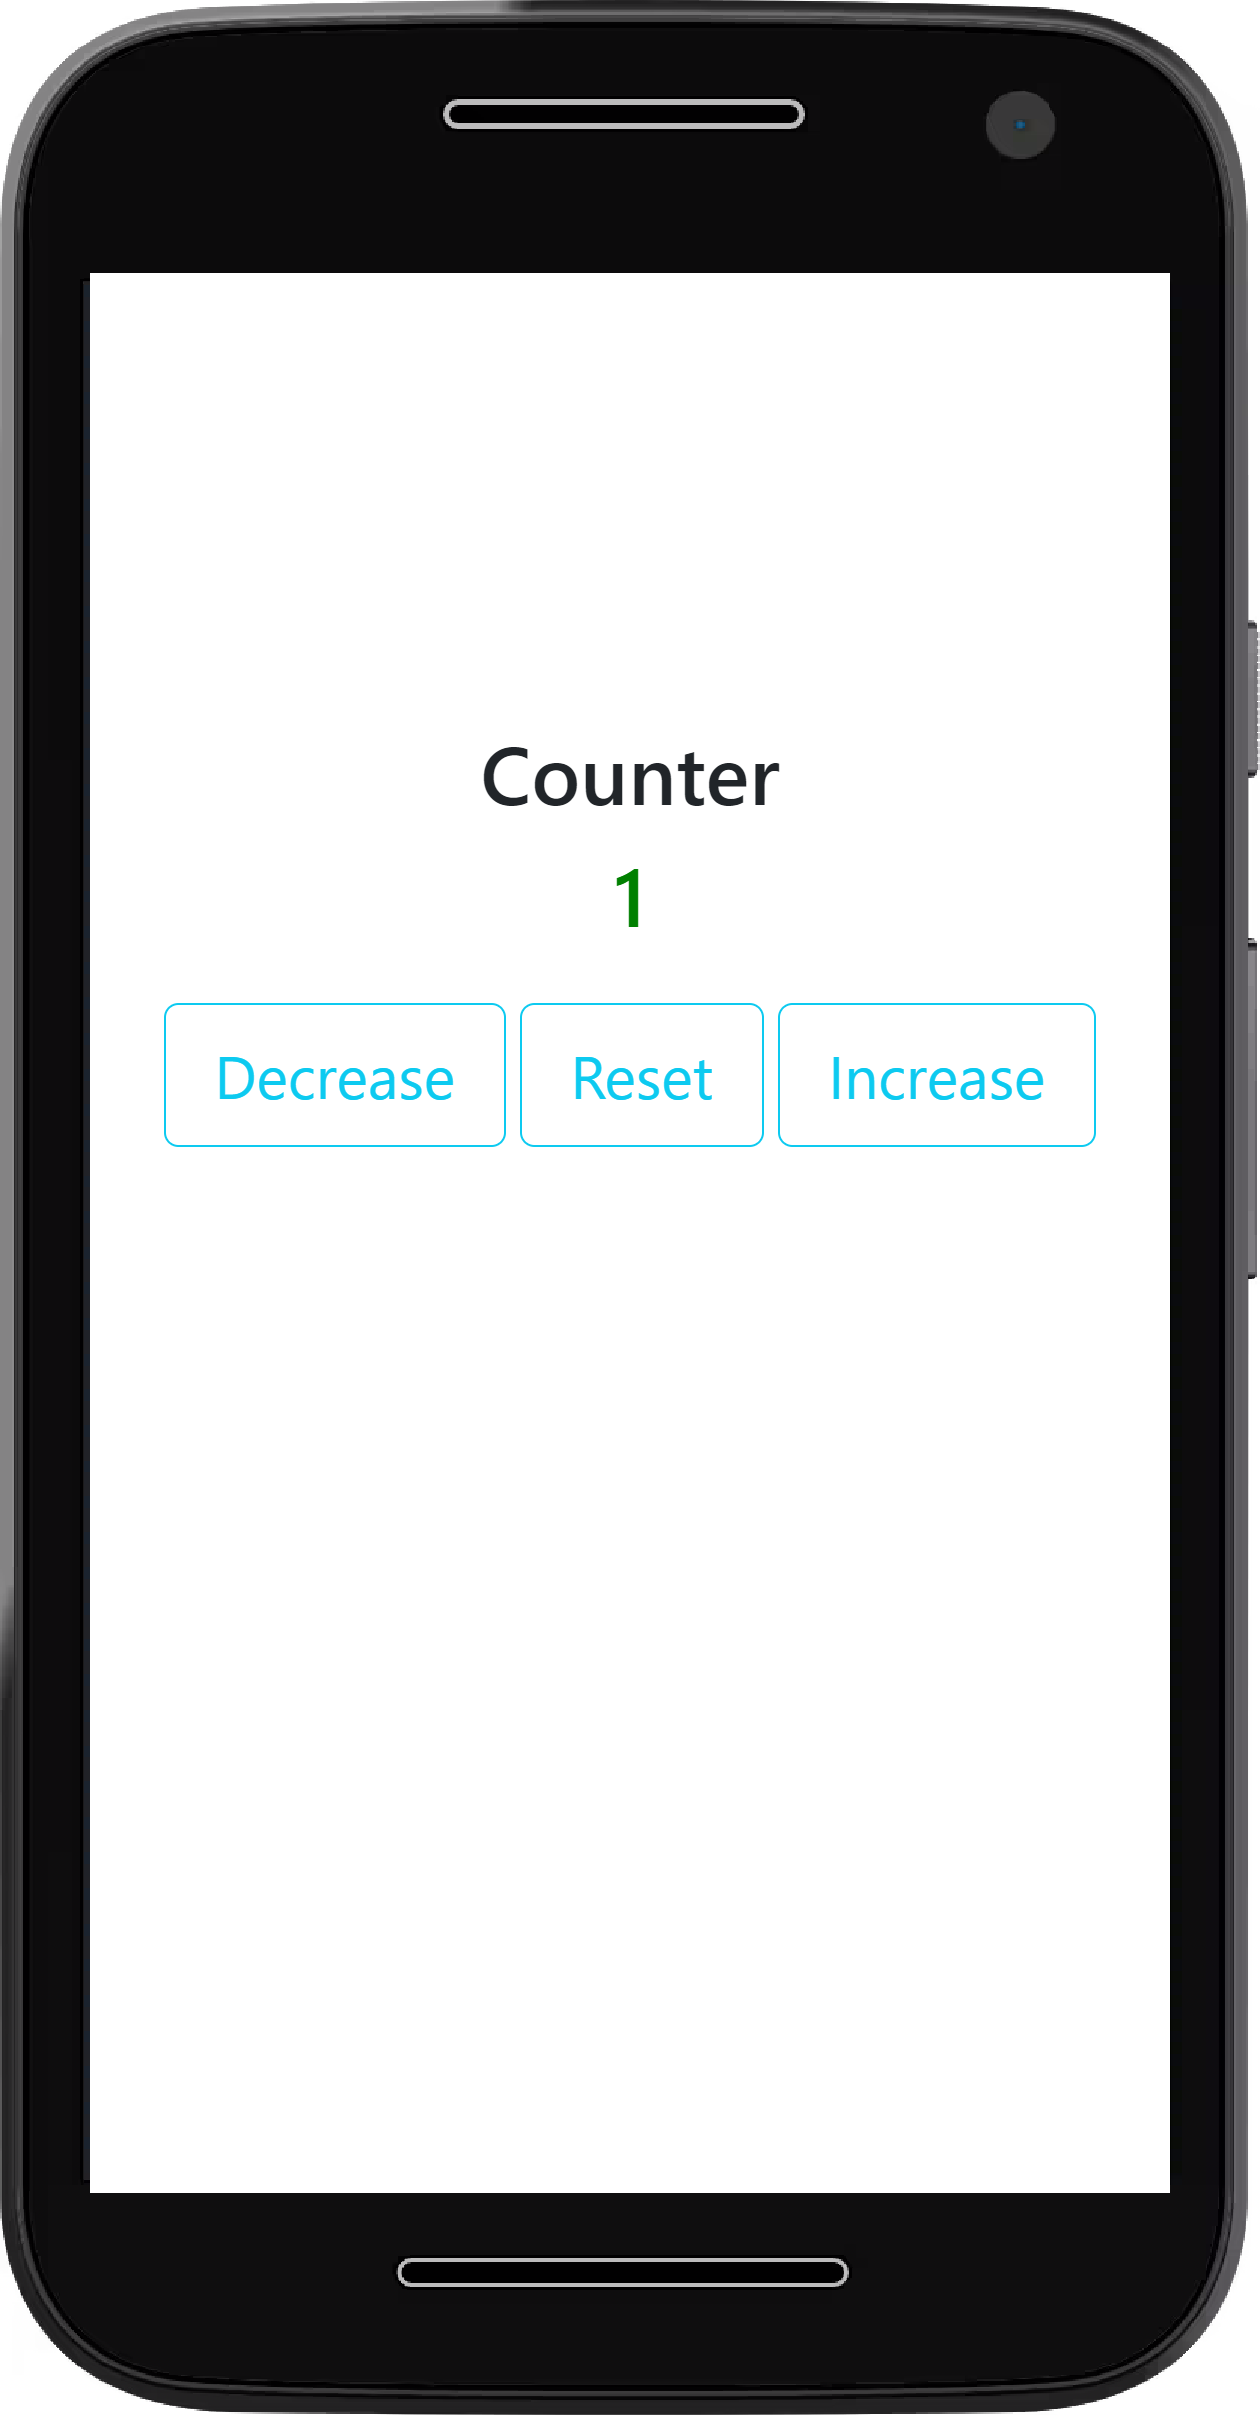
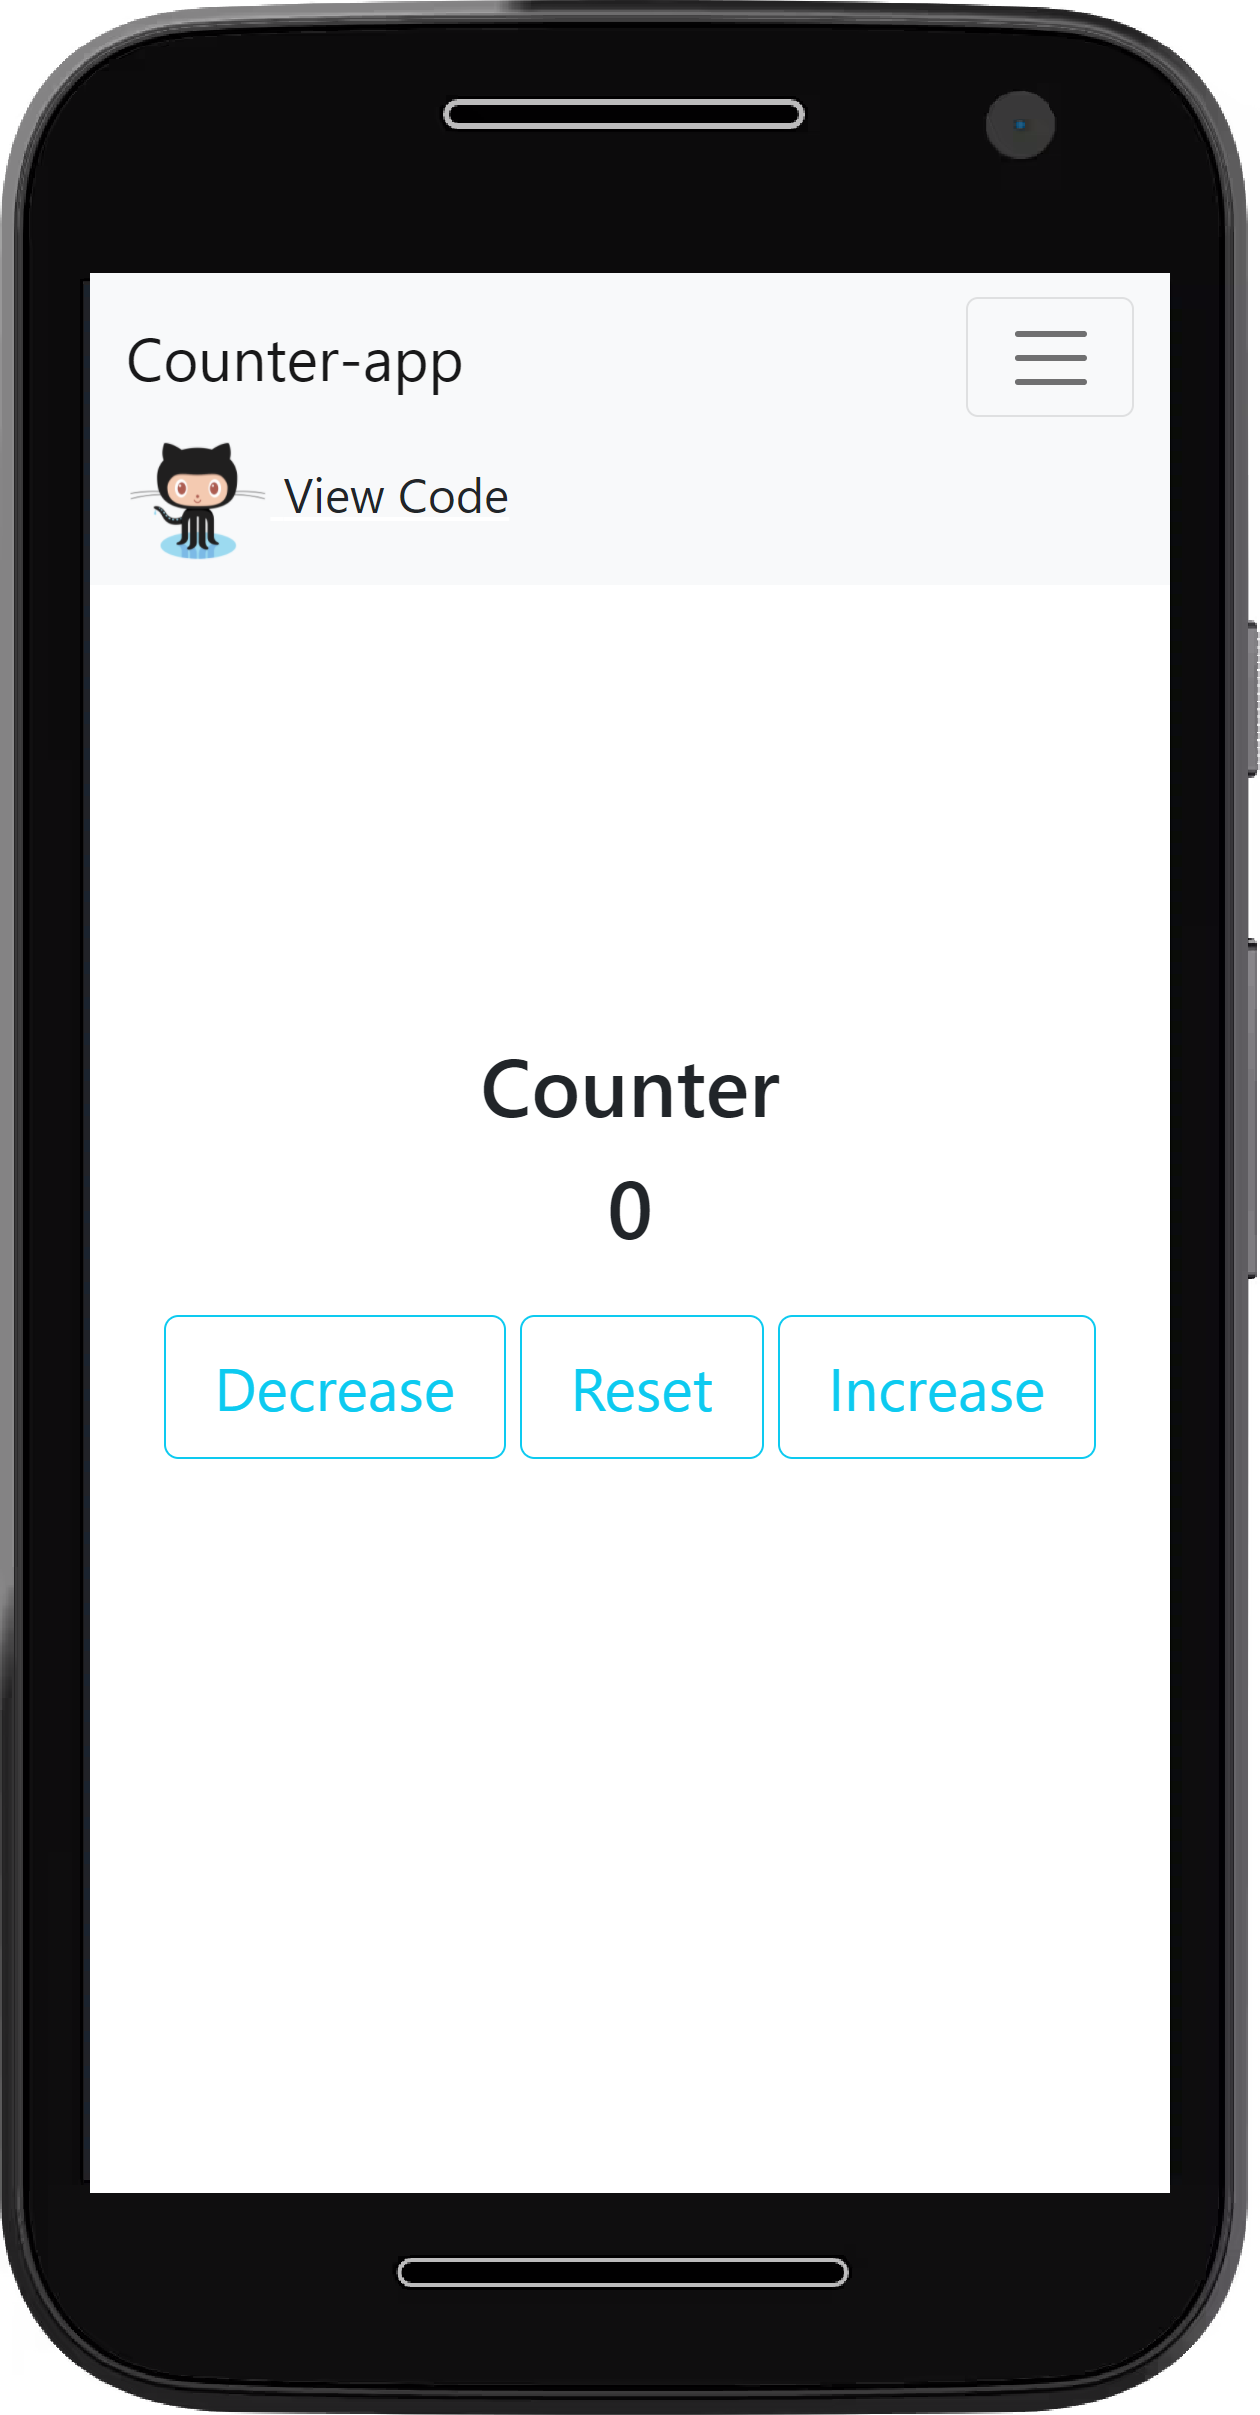
change the image

diff --git a/index.html b/index.html
@@ -12,6 +12,29 @@
 </head>
 
 <body class="text-center">
+    <nav class="navbar navbar-expand-lg navbar-light bg-light">
+        <div class="container-fluid">
+            <a class="navbar-brand" href="#">Counter-app</a>
+            <button class="navbar-toggler" type="button" data-bs-toggle="collapse"
+                data-bs-target="#navbarSupportedContent" aria-controls="navbarSupportedContent" aria-expanded="false"
+                aria-label="Toggle navigation">
+                <span class="navbar-toggler-icon"></span>
+            </button>
+            <div class="collapse navbar-collapse" id="navbarSupportedContent">
+                <ul class="navbar-nav me-auto mb-2 mb-lg-0">
+
+                </ul>
+                <div class="d-flex">
+                    <a class="text-white" href="https://github.com/madhuri-chitikela/counter-app">
+                        <img src="https://github.githubassets.com/images/modules/logos_page/Octocat.png"
+                            alt="github icon" height=40>
+                        <span class="text-dark">View Code</span>
+                    </a>
+                </div>
+
+            </div>
+        </div>
+    </nav>
     <main>
         <div class="container">
             <h1 style="margin-top:150px">Counter</h1>
@@ -24,6 +47,9 @@
             </div>
         </div>
     </main>
+    <script src="https://cdn.jsdelivr.net/npm/bootstrap@5.0.0-beta3/dist/js/bootstrap.bundle.min.js"
+        integrity="sha384-JEW9xMcG8R+pH31jmWH6WWP0WintQrMb4s7ZOdauHnUtxwoG2vI5DkLtS3qm9Ekf"
+        crossorigin="anonymous"></script>
     <script src="app.js"></script>
 </body>
 
